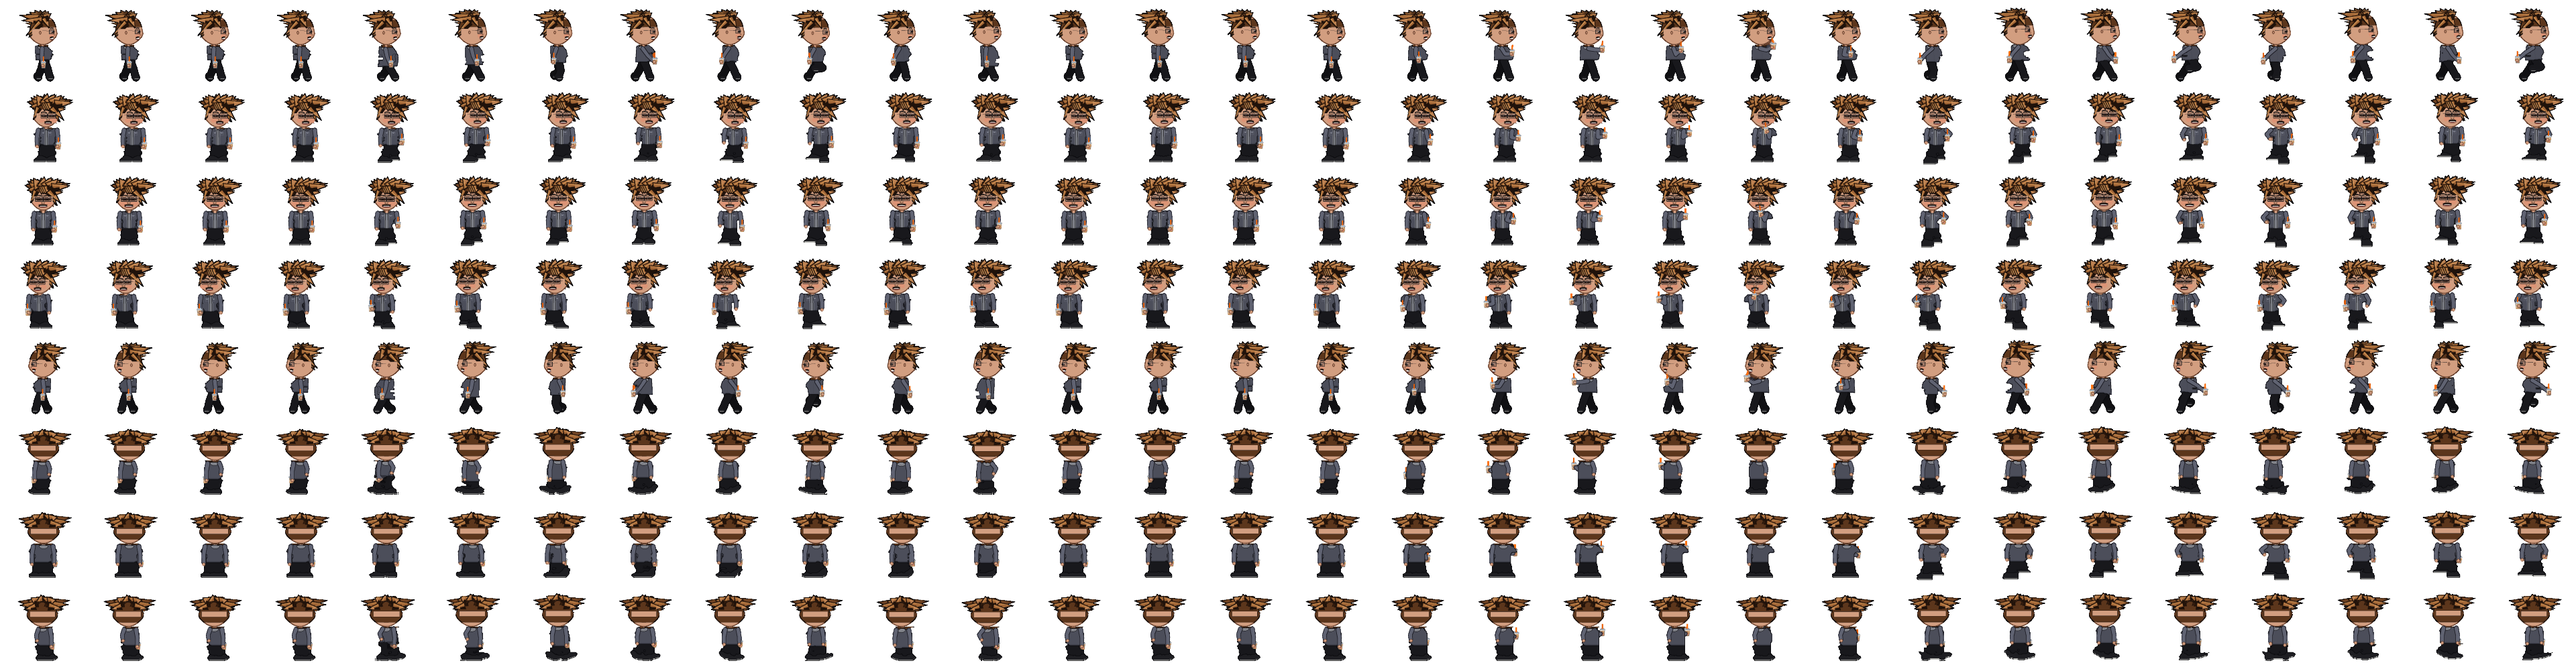
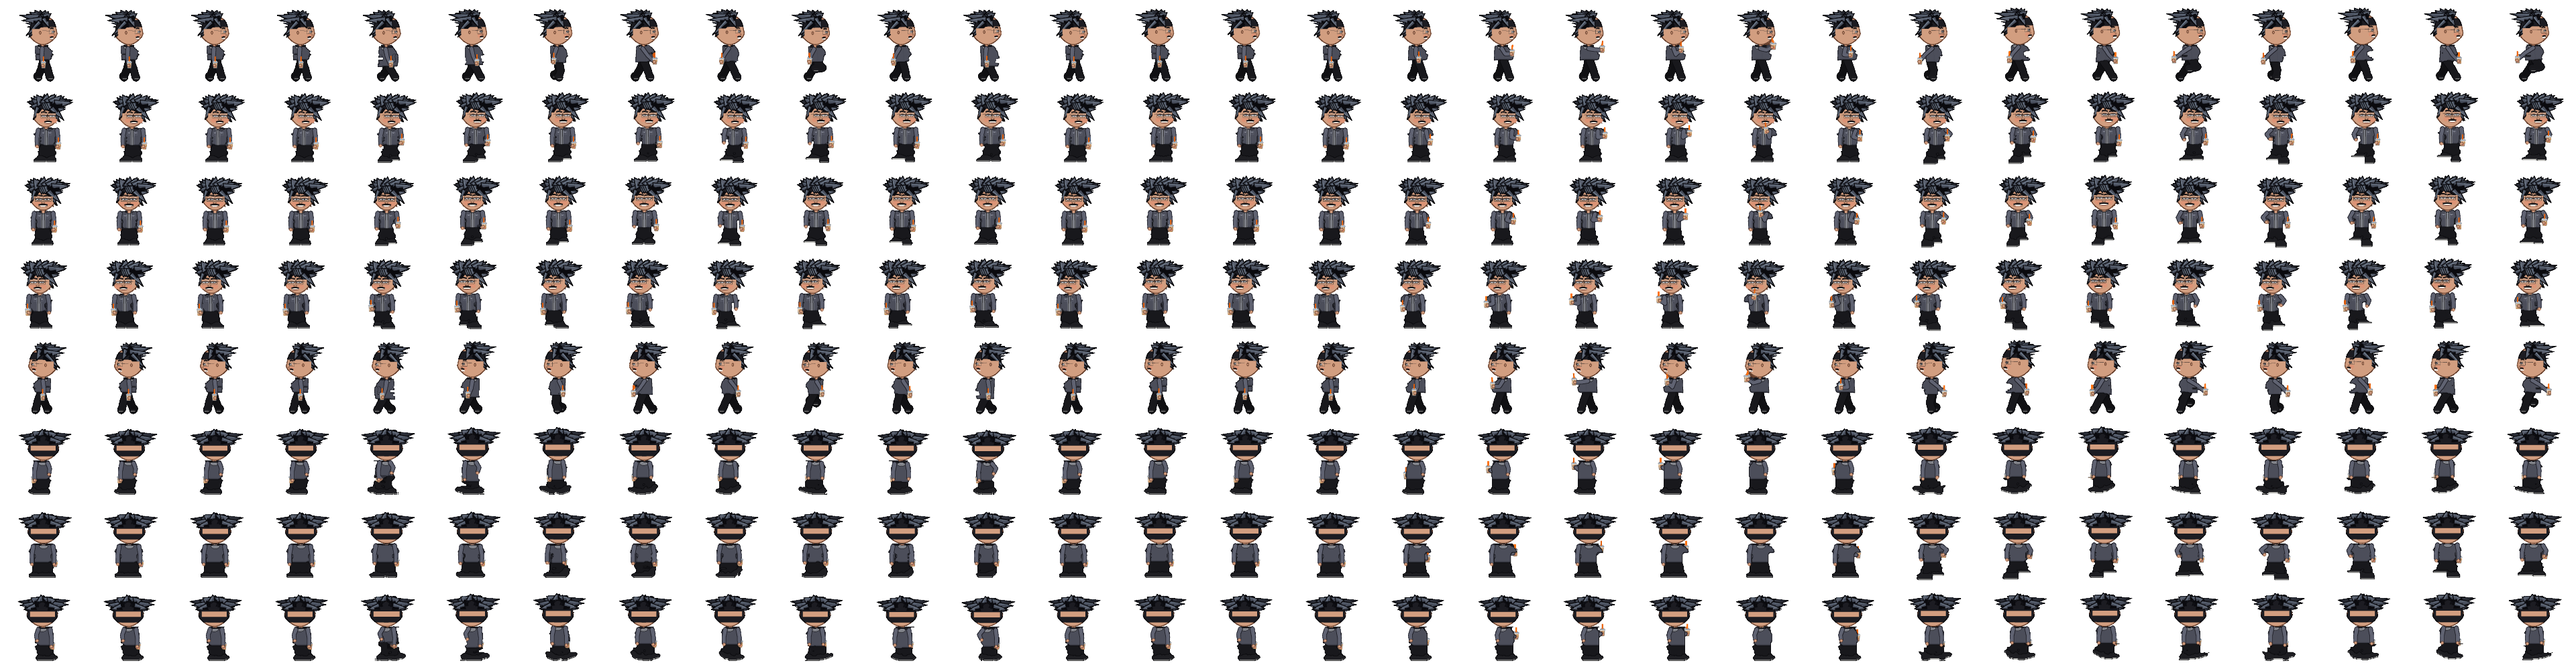
Billy: black Sora spikes, clear white eyes, curved smile
Recolour asymmetric long spikes to black/charcoal with blue-grey
highlights (not orange-brown). White sclera + dark pupils behind thin
clear glasses with brows; warm curved smile showing teeth. Keep small
mustache. All 8 dirs; HEAD_SCALE 1.36.

diff --git a/phaser-tag-client/tools/make_billy_skin.py b/phaser-tag-client/tools/make_billy_skin.py
@@ -67,7 +67,7 @@ FACE = {"E": (1, 0), "SE": (0.7, 0.7), "S": (0, 1), "SW": (-0.7, 0.7),
 
 BG, HAIR, SKIN, HAND, SLEEVE, JACKET, PANTS, SHOE = range(8)
 COL = {
-    HAIR: (92, 54, 28),
+    HAIR: (28, 28, 34),
     SKIN: (210, 158, 128),
     HAND: (210, 158, 128),
     SLEEVE: (96, 99, 114),
@@ -87,14 +87,14 @@ POCKET_HI = (128, 131, 146)
 ZIP = (170, 173, 182)
 HEM = (62, 64, 75)
 PANTS_BACK = (16, 16, 19)
-HAIR_HI = (210, 152, 88)       # tip highlight (warm orange-tan, not blonde)
-HAIR_LIT = (162, 102, 54)      # light tip / lit face of a spike
-HAIR_MID = (108, 64, 34)       # mid orange-brown
-HAIR_BACK = (62, 36, 20)       # recessed back-layer / dark base
-HAIR_SHADE = (32, 18, 10)      # underside / cast-shadow
+HAIR_HI = (118, 132, 148)      # blue-grey tip highlight
+HAIR_LIT = (72, 78, 92)        # lit face of a spike (charcoal-blue)
+HAIR_MID = (38, 40, 48)        # mid black/charcoal
+HAIR_BACK = (22, 22, 28)       # recessed back-layer
+HAIR_SHADE = (10, 10, 14)      # underside / cast-shadow
 GLASS = (14, 14, 17)
-BROW = (22, 18, 18)
-STACHE = (28, 18, 14)
+BROW = (16, 14, 16)
+STACHE = (18, 16, 18)
 TEETH = (250, 248, 240)
 EYE = (30, 24, 26)
 # cup
@@ -689,7 +689,7 @@ def rebuild_head(L, rgb, union, direction, wp, eyes_o):
             (S(tx), S(ty)),
             (S(bx + dx * 0.42 - tpx), S(by + dy * 0.42 - tpy)),
         ]
-        tip_col = lit if layer < 2 else tuple(min(255, c + 28) for c in lit)
+        tip_col = lit if layer < 2 else tuple(min(255, c + 18) for c in lit)
         ld.polygon(tip_poly, fill=tip_col + (255,))
         # crisp highlight streak along lit ridge into the tip
         hx0 = bx + lit_sign * px_ * 0.55
@@ -879,7 +879,7 @@ def ell(d, cx, cy, rx, ry, col, outline=None, width=0.5):
 
 
 CHEEK = (220, 148, 118)
-LENS = (168, 128, 108)
+LENS = (218, 168, 138)  # clear-glass tint over skin; eyes supply the white
 MOUTH = (82, 38, 36)
 
 
@@ -888,16 +888,17 @@ def _blend(c, k, t):
 
 
 def smile_eye(d, ex, ey, hw, side=0, ry=1.7, half=False, fx=0):
-    """Happy-squint cartoon eyes: wide, lids pinch into a warm crescent that
-    nearly fills the glasses so empty lens never reads as a stare."""
+    """Happy-squint cartoon eyes: white sclera + dark pupil behind thin clear
+    glasses; lids pinch into a warm crescent so they read as a smile, not a
+    grey sunglasses visor."""
     img = d._image
     n = 19
     ts = np.linspace(-1, 1, n)
     # crescent: upper lid arcs down firmly, lower lid arcs up
     up = [(ex + hw * t,
-           ey - ry * 0.42 * (1 - t * t) ** 0.4 - 0.08 * side * t) for t in ts]
+           ey - ry * 0.48 * (1 - t * t) ** 0.4 - 0.08 * side * t) for t in ts]
     lo = [(ex + hw * t,
-           ey + ry * 0.48 * (1 - t * t) ** 0.5 - 0.05 * side * t) for t in ts]
+           ey + ry * 0.55 * (1 - t * t) ** 0.5 - 0.05 * side * t) for t in ts]
     if half:
         keep = [i for i, t in enumerate(ts) if (t * fx) >= -0.15]
         up = [up[i] for i in keep]
@@ -908,15 +909,20 @@ def smile_eye(d, ex, ey, hw, side=0, ry=1.7, half=False, fx=0):
     ImageDraw.Draw(msk).polygon(poly, fill=255)
     lay = Image.new("RGBA", img.size, (0, 0, 0, 0))
     ld = ImageDraw.Draw(lay)
-    # iris fills the whole crescent — no white sclera (happy squint, not stare)
-    ld.polygon(poly, fill=(78, 48, 30, 255))
+    # white eyeball (big ellipse) so sclera survives 4x down, then dark pupil
     ix = ex + (0.3 * fx if half else 0.1 * fx) + 0.08 * side
-    r = max(ry * 0.72, 0.95)
-    iy = ey + 0.1
-    ld.ellipse([S(ix - r * 0.85), S(iy - r * 0.55), S(ix + r * 0.85), S(iy + r * 0.55)],
-               fill=(28, 18, 14, 255))
-    # tiny catchlight only (no sclera flash)
-    ld.ellipse([S(ix - r * 0.4), S(iy - r * 0.35), S(ix - r * 0.4 + 0.45), S(iy - r * 0.35 + 0.45)],
+    iy = ey + 0.08
+    ew, eh = hw * 0.95, ry * 0.95
+    ld.ellipse([S(ix - ew), S(iy - eh), S(ix + ew), S(iy + eh)],
+               fill=(250, 252, 255, 255))
+    # also fill crescent so lids clip cleanly
+    ld.polygon(poly, fill=(250, 252, 255, 255))
+    pr = max(ry * 0.42, 0.7)  # pupil smaller than white so white ring remains
+    ld.ellipse([S(ix - pr * 0.95), S(iy - pr * 0.85), S(ix + pr * 0.95), S(iy + pr * 0.85)],
+               fill=(18, 14, 16, 255))
+    # catchlight
+    ld.ellipse([S(ix - pr * 0.45), S(iy - pr * 0.55),
+                S(ix - pr * 0.45 + 0.65), S(iy - pr * 0.55 + 0.65)],
                fill=(255, 255, 255, 255))
     la = np.asarray(lay).copy()
     la[..., 3] = np.minimum(la[..., 3], np.asarray(msk))
@@ -979,39 +985,39 @@ def draw_face(img, L, direction, eyes_o, wp, head_box):
             tline(d, [(ex - sg * hw * 0.9, ey - gh - 0.95),
                       (ex - sg * hw * 0.1, ey - gh - 1.65),
                       (ex + sg * hw * 0.35, ey - gh - 1.7),
-                      (ex + sg * hw * 0.9, ey - gh - 1.15)], BROW, 1.2)
+                      (ex + sg * hw * 0.9, ey - gh - 1.15)], BROW, 1.45)
         # THIN black rectangular frames so eyes read clearly
         for ex, hw in ((lx, hw_l), (rx, hw_r)):
             d.rounded_rectangle([S(ex - hw), S(ey - gh), S(ex + hw), S(ey + gv)],
-                                radius=S(0.5), outline=GLASS, width=W_(0.4))
+                                radius=S(0.5), outline=GLASS, width=W_(0.32))
             tline(d, [(ex + hw * 0.35, ey - gh + 0.55), (ex + hw * 0.7, ey - gh + 0.85)], (235, 240, 245), 0.35)
         tline(d, [(lx + hw_l - 0.1, ey - 0.55), (mid, ey - 0.85), (rx - hw_r + 0.1, ey - 0.55)], GLASS, 0.65)
         tline(d, [(lx - hw_l, ey - 0.7), (max(x0 + 0.4, lx - hw_l - 2.2), ey - 1.0)], GLASS, 0.55)
         tline(d, [(rx + hw_r, ey - 0.7), (min(x1 - 0.4, rx + hw_r + 2.2), ey - 1.0)], GLASS, 0.55)
-        # warm OPEN smile: deep cavity + solid upper-teeth band that survives
-        # 4x box-downscale (needs >=1 out-px of solid TEETH, grid-aligned)
-        mw = 5.0 if fx == 0 else 4.2
+        # warm wide CURVED smile showing teeth (not a gaping slot)
+        mw = 5.35 if fx == 0 else 4.5
         my = ey + 6.6
-        d.chord([S(mx - mw), S(my - 0.7), S(mx + mw), S(my + 2.9)], 0, 180, fill=MOUTH)
-        # solid teeth band (rectangle clipped to mouth width) — thick enough
-        # for down(); still reads as a thin upper strip vs the open cavity
-        # SS height of ~4.5 so after 4x box-mean we keep ~1 out-px of white
-        ty0 = int(round(S(my - 0.1)))
-        ty1 = ty0 + int(round(SS * 1.15))  # solid band height in SS px
-        tx0 = int(round(S(mx - mw + 1.15)))
-        tx1 = int(round(S(mx + mw - 1.15)))
+        # smile cavity: gentle crescent (shallow height)
+        d.chord([S(mx - mw), S(my - 0.2), S(mx + mw), S(my + 2.15)], 12, 168, fill=MOUTH)
+        # solid TEETH band — deliberately thick so 4x mean keeps white
+        ty0 = int(round(S(my + 0.15)))
+        ty1 = ty0 + int(round(SS * 1.25))
+        tx0 = int(round(S(mx - mw + 0.75)))
+        tx1 = int(round(S(mx + mw - 0.75)))
         d.rectangle([tx0, ty0, tx1, ty1], fill=TEETH)
-        d.arc([S(mx - mw), S(my - 0.7), S(mx + mw), S(my + 2.9)], 18, 162, fill=SKIN_LINE, width=W_(0.55))
-        tline(d, [(mx - mw * 0.85, my + 2.15), (mx, my + 2.6), (mx + mw * 0.85, my + 2.15)], (168, 96, 86), 0.65)
-        # small mustache across upper lip (must survive 4x box-down)
-        tline(d, [(mx - mw + 0.5, my + 0.4), (mx - mw * 0.4, my - 0.2),
-                  (mx, my - 0.4), (mx + mw * 0.4, my - 0.2),
-                  (mx + mw - 0.5, my + 0.4)], STACHE, 1.85)
-        tline(d, [(mx - mw * 0.75, my + 0.2), (mx, my - 0.05),
-                  (mx + mw * 0.75, my + 0.2)], STACHE, 1.35)
-        # fill a few SS pixels solid so down() keeps a dark lip band
-        sy0 = int(round(S(my - 0.15))); sy1 = sy0 + max(2, int(SS * 0.55))
-        sx0 = int(round(S(mx - mw * 0.55))); sx1 = int(round(S(mx + mw * 0.55)))
+        # clip teeth corners with warm lower lip so it reads as a curved smile
+        d.pieslice([S(mx - mw), S(my - 0.2), S(mx + mw), S(my + 2.15)], 168, 192, fill=COL[SKIN])
+        d.pieslice([S(mx - mw), S(my - 0.2), S(mx + mw), S(my + 2.15)], -12, 12, fill=COL[SKIN])
+        d.arc([S(mx - mw), S(my - 0.2), S(mx + mw), S(my + 2.15)], 18, 162, fill=SKIN_LINE, width=W_(0.55))
+        tline(d, [(mx - mw * 0.75, my + 1.65), (mx, my + 1.95), (mx + mw * 0.75, my + 1.65)], (168, 96, 86), 0.6)
+        # small mustache across upper lip (above smile)
+        tline(d, [(mx - mw + 0.55, my - 0.15), (mx - mw * 0.4, my - 0.65),
+                  (mx, my - 0.85), (mx + mw * 0.4, my - 0.65),
+                  (mx + mw - 0.55, my - 0.15)], STACHE, 1.85)
+        tline(d, [(mx - mw * 0.7, my - 0.25), (mx, my - 0.5),
+                  (mx + mw * 0.7, my - 0.25)], STACHE, 1.35)
+        sy0 = int(round(S(my - 0.65))); sy1 = sy0 + max(2, int(SS * 0.5))
+        sx0 = int(round(S(mx - mw * 0.5))); sx1 = int(round(S(mx + mw * 0.5)))
         d.rectangle([sx0, sy0, sx1, sy1], fill=STACHE)
         return (mx, my)
     # profile
@@ -1039,18 +1045,18 @@ def draw_face(img, L, direction, eyes_o, wp, head_box):
     gh, gv = 2.5, 2.35
     d.rounded_rectangle([S(lx0), S(ey - gh), S(lx1), S(ey + gv)], radius=S(0.5), fill=LENS)
     smile_eye(d, ex2 + fx * 0.2, ey + 0.1, 2.65, ry=1.7, side=fx, half=True, fx=fx)
-    tline(d, [(ex2 - fx * 1.9, ey - gh - 1.15), (ex2, ey - gh - 1.7), (ex2 + fx * 1.7, ey - gh - 1.2)], BROW, 1.15)
-    d.rounded_rectangle([S(lx0), S(ey - gh), S(lx1), S(ey + gv)], radius=S(0.45), outline=GLASS, width=W_(0.4))
+    tline(d, [(ex2 - fx * 1.9, ey - gh - 1.15), (ex2, ey - gh - 1.7), (ex2 + fx * 1.7, ey - gh - 1.2)], BROW, 1.4)
+    d.rounded_rectangle([S(lx0), S(ey - gh), S(lx1), S(ey + gv)], radius=S(0.45), outline=GLASS, width=W_(0.32))
     tline(d, [(ex2 + fx * 0.2, ey - 0.7), (ex2 + fx * 0.8, ey - 0.7)], (255, 255, 255), 0.35)
     tline(d, [(ex2 - fx * 1.5, ey - 0.65), (wp.hcx_o + fx * 0.2, ey - 1.15)], GLASS, 0.55)
-    # warm open smile + thin mustache (no soul patch)
+    # warm curved smile + thin mustache (no soul patch)
     a0, a1 = sorted((mx + fx * 0.1, mx - fx * 4.0))
-    d.chord([S(a0), S(my - 1.1), S(a1), S(my + 2.4)], 0, 180, fill=MOUTH)
-    ty0 = int(round(S(my - 0.1))); ty1 = int(round(S(my + 1.0)))
-    d.rectangle([int(round(S(a0 + 0.4))), ty0, int(round(S(a1 - 0.35))), ty1], fill=TEETH)
-    tline(d, [(mx - fx * 3.2, my + 0.35), (mx - fx * 3.6, my - 0.25)], SKIN_LINE, 0.45)
-    tline(d, [(mx - fx * 3.4, my - 0.25), (mx - fx * 1.4, my - 1.05), (mx + fx * 0.35, my - 0.75)], STACHE, 1.5)
-    tline(d, [(mx - fx * 2.8, my - 0.05), (mx - fx * 1.0, my - 0.55)], STACHE, 1.1)
+    d.chord([S(a0), S(my - 0.4), S(a1), S(my + 1.95)], 10, 170, fill=MOUTH)
+    ty0 = int(round(S(my + 0.1))); ty1 = ty0 + int(round(SS * 1.15))
+    d.rectangle([int(round(S(a0 + 0.35))), ty0, int(round(S(a1 - 0.3))), ty1], fill=TEETH)
+    tline(d, [(mx - fx * 3.2, my + 0.25), (mx - fx * 3.6, my - 0.15)], SKIN_LINE, 0.45)
+    tline(d, [(mx - fx * 3.4, my - 0.55), (mx - fx * 1.4, my - 1.25), (mx + fx * 0.35, my - 0.95)], STACHE, 1.5)
+    tline(d, [(mx - fx * 2.8, my - 0.35), (mx - fx * 1.0, my - 0.75)], STACHE, 1.1)
     return (mx, my)
 
 
